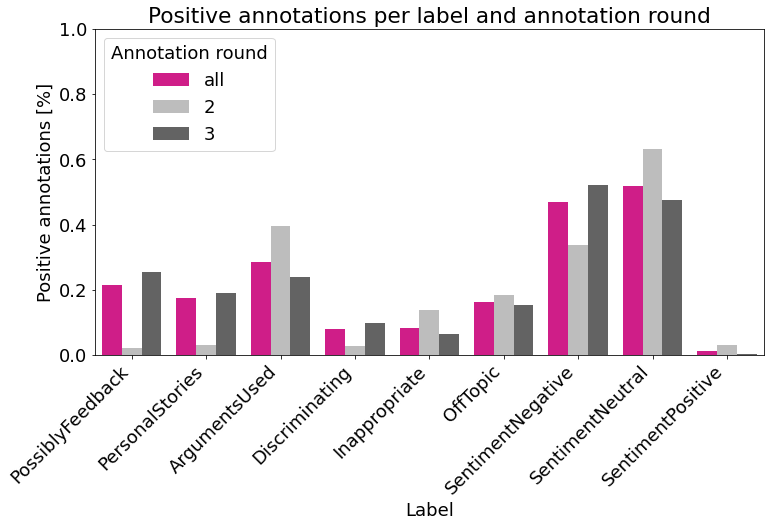
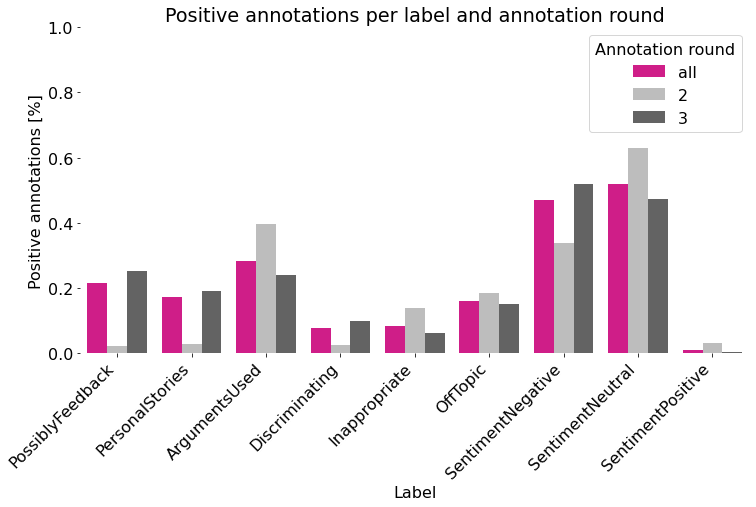
Issue #39: Add plot for label distribution in annotation rounds
Done:
- Add absolute counts
- Alternative: Stacked bar-chart with positive annotations count from
  round 2 and round 3

Changed region(s): [[0.0, 0.0296, 1.0, 1.0], [0.1825, 0.0, 0.9431, 0.0592], [0.4259, 0.7988, 0.4868, 0.8876]]

diff --git a/eda_label_distribution.py b/eda_label_distribution.py
@@ -29,40 +29,55 @@ df_ann = feature_engineering.add_column_ann_round(df_ann)
 df_ann.head()
 
 # %%
-df_ann.ann_round.unique()
-
-# %%
+# prepare extended annotation dataframe with duplicates annotated with "all"
 df_ann_ext = df_ann.copy()
 df_ann_ext.ann_round = "all"
 df_ann.ann_round = df_ann.ann_round.astype(str)
 df_ann_ext = pd.concat([df_ann_ext, df_ann], axis=0)
 df_ann_ext.shape
 
+# %%
+# annotation counts per value, annotation round, and category
+df_ann_counts = df_ann_ext.groupby(["category", "ann_round"])["value"].value_counts().unstack(level=2).unstack(level=1)
+df_ann_counts
+
+
+# %% [markdown]
+# ## Bar chart
+#
+# For each label there are three bars indicating the percentage of positive lables annotated in this round. All means round 2 and 3.
+# This plot shows a "true" label distribution for randomly sampled posts in round 2. The posts from round 3 are sampled in a way to increase positive annotations for rare labels.
 
 # %%
-# todo: total and a need to be fixed!
-# kindly borrowed from https://stackoverflow.com/questions/35692781/python-plotting-percentage-in-seaborn-bar-plot
-def add_counts(ax, feature, number_of_categories, hue_categories):
-    a = [p.get_height() for p in ax.patches]
+# kindly borrowed and adjusted from https://stackoverflow.com/questions/35692781/python-plotting-percentage-in-seaborn-bar-plot
+def add_annotation_with_hue(ax, absolute_values):
+    """Add annotations to barplot with hue
+
+    Args:
+        ax: The axes of the plot.
+        absolute_values: DataFrame with values to annotate (x lables of plot as index, hue lables as columns). 
+    """
+    labels = absolute_values.index.to_list()
+    hue_categories = absolute_values.columns.to_list()
+    number_of_categories = len(labels) 
+    number_hue_categories = len(hue_categories)
     patch = [p for p in ax.patches]
-    for i in range(number_of_categories):
-        for j in range(hue_categories):
-            total = feature.value_counts().values[j]
-            percentage = '{:.1f}'.format(a[(j*number_of_categories + i)]*total)
+    for i, label in enumerate(labels):
+        for j, hue_column in enumerate(hue_categories):
+            annotation = f'{absolute_values.loc[label, hue_column]:.0f}'
             x = patch[(j*number_of_categories + i)].get_x() + patch[(j*number_of_categories + i)].get_width() / 2 - 0.15
-            y = patch[(j*number_of_categories + i)].get_y() + patch[(j*number_of_categories + i)].get_height() 
-            ax.annotate(percentage, (x, y), size = 12)
-    plt.show()
+            y = patch[(j*number_of_categories + i)].get_y() + patch[(j*number_of_categories + i)].get_height()  + 0.01
+            ax.annotate(annotation, (x, y), size = 14)
 
 
 # %%
-font = {'family' : 'normal',
-        'size'   : 18}
+font = {'size'   : 16}
 matplotlib.rc('font', **font)
 
 plt.figure(figsize=(12,6))
 COLOR_STANDARD = ["#EC008E", "#bdbdbd", "#636363"]
 g = sns.barplot(data=df_ann_ext, x="category", y="value", hue="ann_round", ci=None, hue_order=["all", "2", "3"], palette=sns.color_palette(COLOR_STANDARD))
+sns.despine(left = True, bottom = True)
 _ = g.set_title("Positive annotations per label and annotation round")
 _ = g.set(ylabel="Positive annotations [%]", xlabel="Label")
 _ = g.legend(title="Annotation round")
@@ -72,29 +87,43 @@ _ = g.set_xticklabels(
     horizontalalignment='right'
 )
 g.set_ylim(bottom=0, top=1);
+#add_counts(g, df_ann_counts.loc[:, 1])
 plt.savefig("./pictures/positive_annotations_per_label.png", bbox_inches="tight")
 
-# %%
-font = {'family' : 'normal',
-        'size'   : 18}
-matplotlib.rc('font', **font)
+# %% [markdown]
+# ## Stacked Bar Chart
+#
+# Create one bar per label, showing the percentage of the postitive annotations of the label. The hue indicates the annotation round.
+#
+# This plot stresses how much of our data is "useless" due to the sampling strategy in annotation round 3.
 
-plt.figure(figsize=(16,6))
-COLOR_STANDARD = ["#bdbdbd", "#636363"]
-g = sns.countplot(data=df_ann, x="category", hue="ann_round", hue_order=["2", "3"], palette=sns.color_palette(COLOR_STANDARD))
-_ = g.set_title("Positive annotations per label and annotation round")
+# %%
+# Seaborn does not support stacked bar charts. Therefore, I need to plot once the cumulative bar and the smaller one on top.
+# Now, calculate the percentages of positive annotations from round 3 and all annotations with df_ann_counts
+total = df_ann_counts.loc[:, (1, "all")] + df_ann_counts.loc[:, (0, "all")]
+df_ann_perc_3 = df_ann_counts.loc[:, (1, "3")] / total
+df_ann_perc_all = df_ann_counts.loc[:, (1, "all")] / total
+df_ann_per = pd.concat({"total": df_ann_perc_all, "3": df_ann_perc_3}, axis=1).reset_index()
+df_ann_per
+
+# %%
+f, ax = plt.subplots(figsize = (12,6))
+g = sns.barplot(x = 'category', y = 'total', data = df_ann_per,
+            label = '2', color = COLOR_STANDARD[1], edgecolor = 'w')
+sns.set_color_codes('muted')
+sns.barplot(x = 'category', y = '3', data = df_ann_per,
+            label = '3', color = COLOR_STANDARD[2], edgecolor = 'w')
+ax.legend(ncol = 2, loc = 'upper left')
+sns.despine(left = True, bottom = True)
+_ = g.set_title("Positive annotations per label")
 _ = g.set(ylabel="Positive annotations [%]", xlabel="Label")
-_ = g.legend(title="Annotation round)")
+_ = g.legend(title="Annotation round")
 _ = g.set_xticklabels(
     g.get_xticklabels(), 
     rotation=45, 
     horizontalalignment='right'
 )
 g.set_ylim(bottom=0, top=1);
-
-# %%
-import seaborn as sns
-sns.set()
-df_ann.groupby(["category", "ann_round"])["value"].value_counts()#set_index('ann_round').value_counts()#.plot(kind='bar', stacked=True)
+plt.savefig("./pictures/positive_annotations_per_label_stacked_ylim1.png", bbox_inches="tight");
 
 # %%
